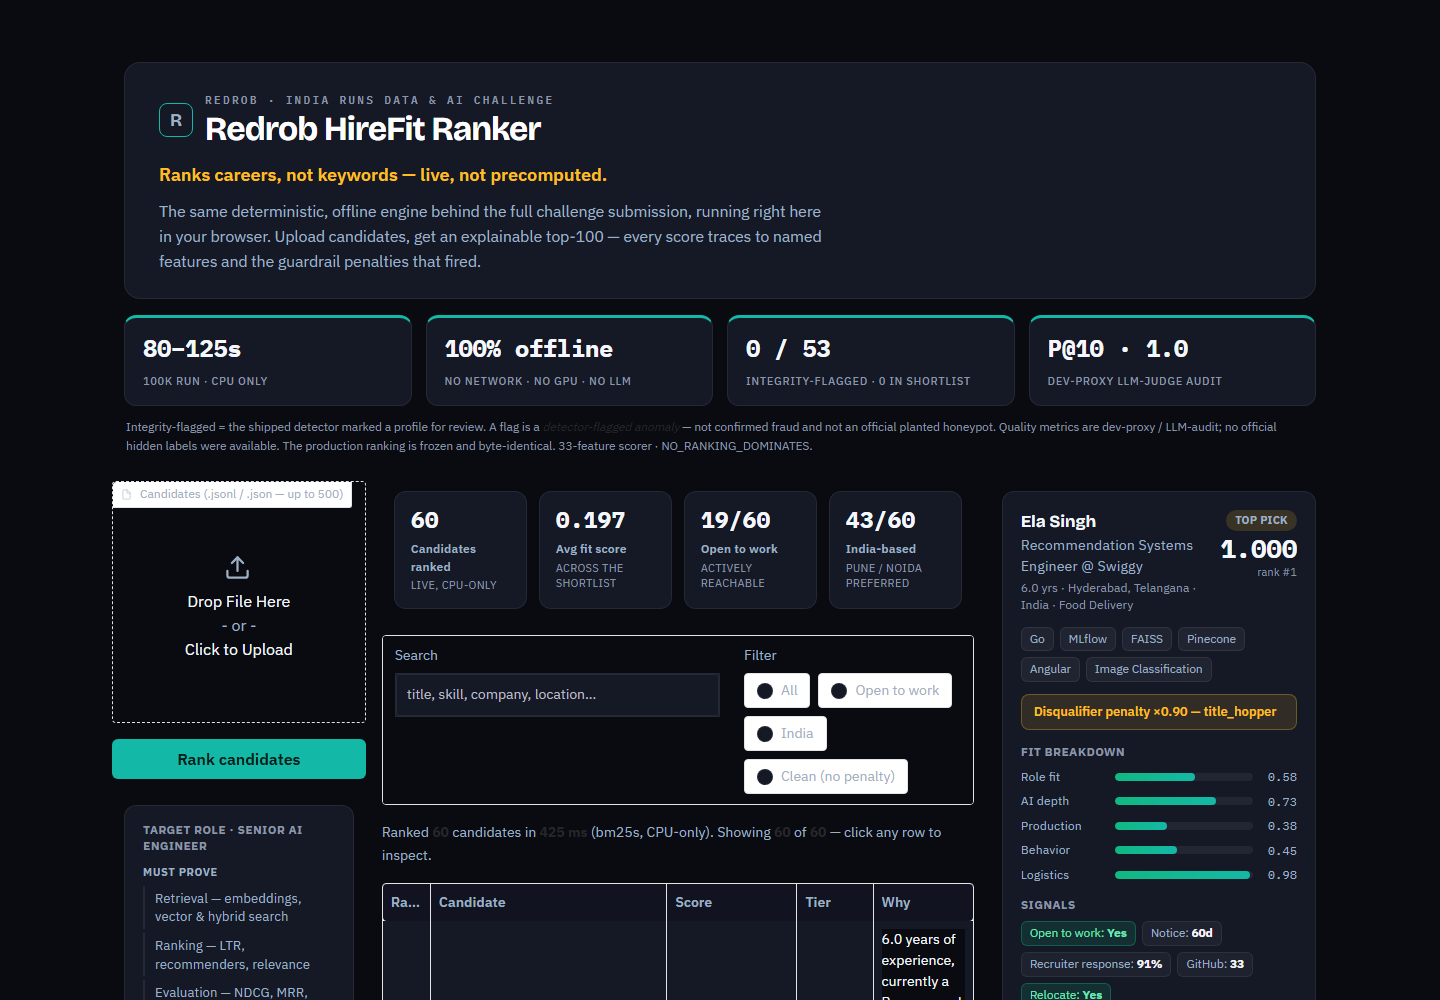
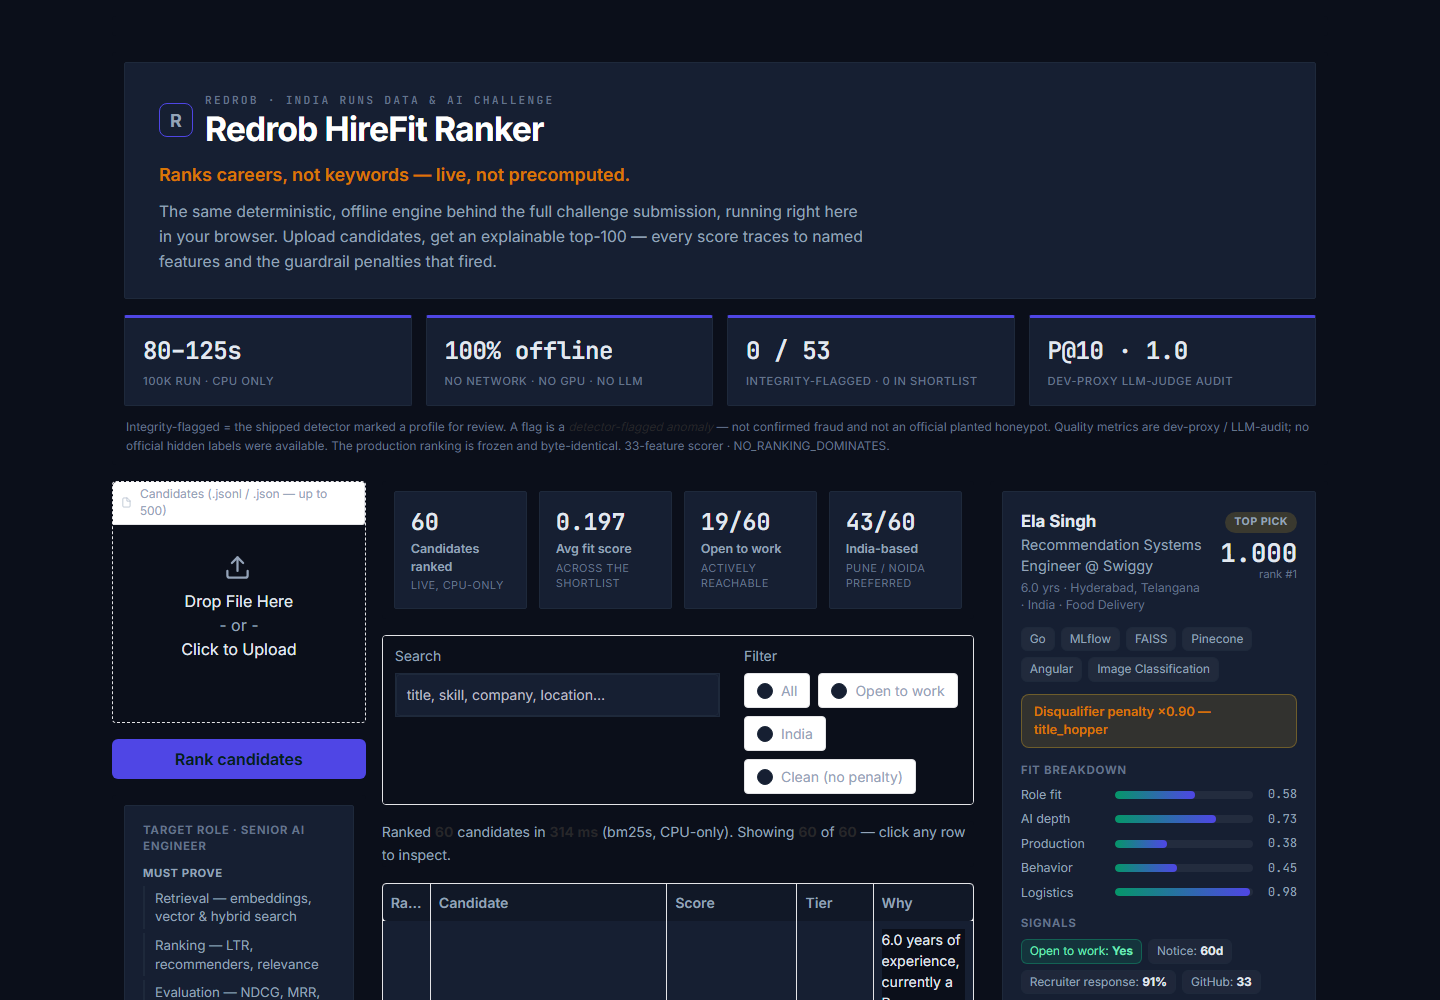
feat(frontend): align Render to Command Core (indigo #4F46E5, Inter/JetBrains Mono, sharp edges)

diff --git a/apps/api/static/index.html b/apps/api/static/index.html
@@ -6,33 +6,33 @@
   <title>Redrob HireFit Ranker</title>
   <link rel="preconnect" href="https://fonts.googleapis.com">
   <link rel="preconnect" href="https://fonts.gstatic.com" crossorigin>
-  <link href="https://fonts.googleapis.com/css2?family=Bricolage+Grotesque:opsz,wght@12..96,500;12..96,600;12..96,700&family=IBM+Plex+Mono:wght@400;500;600&family=IBM+Plex+Sans:wght@400;500;600;700&display=swap" rel="stylesheet">
+  <link href="https://fonts.googleapis.com/css2?family=Inter:wght@400;500;600;700&family=JetBrains+Mono:wght@300;400;500;600&display=swap" rel="stylesheet">
   <style>
     /* ── CSS RESET & BASE ── */
     *, *::before, *::after { margin: 0; padding: 0; box-sizing: border-box; }
     :root {
-      --bg-deep: #090b11;
-      --bg-panel: #111420;
-      --bg-card: #151926;
-      --border-glass: rgba(255, 255, 255, 0.06);
-      --text-primary: #f4f7fb;
-      --text-secondary: #9fb0c3;
-      --text-muted: #8b97a8;
-      --font-display: 'Bricolage Grotesque', 'Segoe UI', sans-serif;
-      --font-body: 'IBM Plex Sans', -apple-system, 'Segoe UI', Roboto, sans-serif;
-      --font-mono: 'IBM Plex Mono', ui-monospace, SFMono-Regular, Menlo, monospace;
-      --accent-cyan: #14b8a6; /* Redefined to a professional Teal */
-      --accent-purple: #64748b; /* Redefined to Slate */
-      --accent-gold: #fbbf24;
+      --bg-deep: #0B0F1A;
+      --bg-panel: #111827;
+      --bg-card: #161F32;
+      --border-glass: #1E293B;
+      --text-primary: #E2E8F0;
+      --text-secondary: #94A3B8;
+      --text-muted: #64748B;
+      --font-display: 'Inter', -apple-system, 'Segoe UI', sans-serif;
+      --font-body: 'Inter', -apple-system, 'Segoe UI', Roboto, sans-serif;
+      --font-mono: 'JetBrains Mono', 'SF Mono', Consolas, ui-monospace, monospace;
+      --accent-cyan: #4F46E5; /* Command Core — muted indigo (was teal) */
+      --accent-purple: #64748b; /* Slate */
+      --accent-gold: #D97706;
       --accent-silver: #94a3b8;
       --accent-bronze: #b45309;
-      --accent-red: #ef4444;
-      --accent-green: #10b981;
+      --accent-red: #DC2626;
+      --accent-green: #059669;
       --glow-cyan: transparent;
       --glow-purple: transparent;
       --glow-gold: transparent;
-      --radius: 8px;
-      --radius-sm: 4px;
+      --radius: 2px;
+      --radius-sm: 0px;
       --transition: all 0.2s cubic-bezier(0.16, 1, 0.3, 1);
     }
 
@@ -66,7 +66,7 @@
       content: '';
       position: absolute;
       inset: 0;
-      background: radial-gradient(circle at 50% -20%, rgba(20, 184, 166, 0.06) 0%, transparent 60%);
+      background: radial-gradient(circle at 50% -20%, rgba(79, 70, 229, 0.07) 0%, transparent 60%);
     }
 
     /* ── GLASSMORPHIC HEADER ── */
@@ -103,9 +103,9 @@
       font-size: 10px; font-weight: 600;
       padding: 2px 8px;
       border-radius: 4px;
-      background: rgba(20, 184, 166, 0.1);
+      background: rgba(79, 70, 229, 0.1);
       color: var(--accent-cyan);
-      border: 1px solid rgba(20, 184, 166, 0.2);
+      border: 1px solid rgba(79, 70, 229, 0.2);
     }
     .header-controls {
       display: flex; align-items: center; gap: 12px;
@@ -126,9 +126,9 @@
       cursor: pointer; transition: var(--transition);
     }
     .mode-btn.active {
-      background: rgba(20, 184, 166, 0.12);
+      background: rgba(79, 70, 229, 0.12);
       color: var(--accent-cyan);
-      border: 1px solid rgba(20, 184, 166, 0.15);
+      border: 1px solid rgba(79, 70, 229, 0.15);
     }
     .mode-btn:hover:not(.active) { color: var(--text-primary); }
 
@@ -248,7 +248,7 @@
       border-color: rgba(255, 255, 255, 0.15);
     }
     .pipeline-node.active {
-      background: rgba(20, 184, 166, 0.08);
+      background: rgba(79, 70, 229, 0.08);
       border-color: var(--accent-cyan);
     }
     .pipeline-node .icon {
@@ -304,7 +304,7 @@
     }
     .filter-btn:hover { border-color: rgba(255, 255, 255, 0.12); color: var(--text-primary); }
     .filter-btn.active {
-      background: rgba(20, 184, 166, 0.08);
+      background: rgba(79, 70, 229, 0.08);
       border-color: var(--accent-cyan);
       color: var(--text-primary);
     }
@@ -443,8 +443,8 @@
       border: 1px solid var(--border-glass);
     }
     .tag-hp { background: rgba(239, 68, 68, 0.08); color: var(--accent-red); border-color: rgba(239, 68, 68, 0.15); }
-    .tag-ml { background: rgba(16, 185, 129, 0.08); color: var(--accent-green); border-color: rgba(16, 185, 129, 0.15); }
-    .tag-product { background: rgba(20, 184, 166, 0.08); color: var(--accent-cyan); border-color: rgba(20, 184, 166, 0.15); }
+    .tag-ml { background: rgba(5, 150, 105, 0.08); color: var(--accent-green); border-color: rgba(5, 150, 105, 0.15); }
+    .tag-product { background: rgba(79, 70, 229, 0.08); color: var(--accent-cyan); border-color: rgba(79, 70, 229, 0.15); }
 
     /* ── UPLOAD ZONE ── */
     .upload-zone {
@@ -461,7 +461,7 @@
     .upload-zone.active { display: block; }
     .upload-zone:hover, .upload-zone.dragover {
       border-color: var(--accent-cyan);
-      background: rgba(20, 184, 166, 0.02);
+      background: rgba(79, 70, 229, 0.02);
     }
     .upload-zone h3 {
       font-size: 15px; font-weight: 600;
@@ -734,7 +734,7 @@
       border-color: rgba(255,255,255,0.12);
       color: var(--text-primary);
     }
-    .skill-tag.advanced { border-color: rgba(16, 185, 129, 0.15); color: var(--accent-green); }
+    .skill-tag.advanced { border-color: rgba(5, 150, 105, 0.15); color: var(--accent-green); }
     .skill-tag.intermediate { border-color: rgba(251, 191, 36, 0.15); color: var(--accent-gold); }
     .skill-tag.beginner { border-color: var(--border-glass); color: var(--text-muted); }
 
@@ -755,7 +755,7 @@
       border-radius: 3px;
       margin-top: 4px;
     }
-    .tier-badge.tier-1 { background: rgba(16, 185, 129, 0.1); color: var(--accent-green); }
+    .tier-badge.tier-1 { background: rgba(5, 150, 105, 0.1); color: var(--accent-green); }
     .tier-badge.tier-2 { background: rgba(251, 191, 36, 0.1); color: var(--accent-gold); }
     .tier-badge.tier-3 { background: rgba(239, 68, 68, 0.1); color: var(--accent-red); }
 
